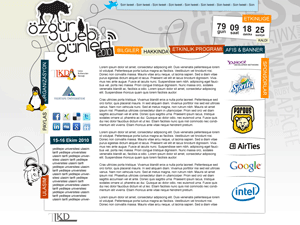
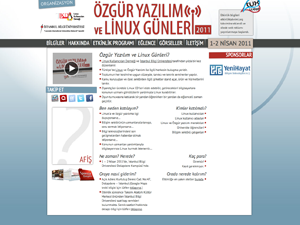
theme screenshot, stil, tuxweet english fixes

diff --git a/www.ozguryazilimgunleri.org.tr/2011/wp-content/themes/oylg2011tema/css/style.css b/www.ozguryazilimgunleri.org.tr/2011/wp-content/themes/oylg2011tema/css/style.css
@@ -98,33 +98,17 @@ p {
 	margin:5px 0 0 50px;
 }
 
-#header #tuxweet {
+#header #mainsponsor {
 	float:right;
 	width:184px;
 }
 
-#header #tuxweet #top {
-	background:url(../images/tuxweettop.png) no-repeat right top;
-	width:184px;
-	height:58px;
+#header #mainsponsor h2 {
+	display:none;
 }
 
-#header #tuxweet #center {
-	background:url(../images/tuxweetcenter.png) repeat-y left top;
-	width:124px;
-	padding:0 50px 0 10px;
-}
-
-#header #tuxweet #bottom {
-	background:url(../images/tuxweetbottom.png) no-repeat left top;
-	width:184px;
-	height:10px;
-}
-
-#header #tuxweet a {
-	font-size:0.9em;
-	font-family:'PTSansRegular', Arial, sans-serif;
-	text-decoration:none;
+#header #mainsponsor img {
+	float:left;
 }
 
 /* menu */
@@ -234,6 +218,30 @@ p {
 	float:left;
 	width:210px;
 	margin:10px 0 0 4px;
+}
+
+#wrapper #content #left #tuxweet #top {
+	background:url(../images/tuxweettop.png) no-repeat right top;
+	width:184px;
+	height:58px;
+}
+
+#wrapper #content #left #tuxweet #center {
+	background:url(../images/tuxweetcenter.png) repeat-y left top;
+	width:124px;
+	padding:0 50px 0 10px;
+}
+
+#wrapper #content #left #tuxweet #bottom {
+	background:url(../images/tuxweetbottom.png) no-repeat left top;
+	width:184px;
+	height:10px;
+}
+
+#wrapper #content #left #tuxweet a {
+	font-size:0.9em;
+	font-family:'PTSansRegular', Arial, sans-serif;
+	text-decoration:none;
 }
 
 #wrapper #content #left li {

diff --git a/www.ozguryazilimgunleri.org.tr/2011/wp-content/themes/oylg2011tema/sidebar.php b/www.ozguryazilimgunleri.org.tr/2011/wp-content/themes/oylg2011tema/sidebar.php
@@ -2,4 +2,13 @@
 <h2><? if($_GET["lang"]=="en") echo "FOLLOW US"; else echo "TAKİP ET"; ?></h2>
 <?php wp_list_bookmarks("title_before=<h2 style='display:none;'>&title_li=&category_before=&category_after=&category=4&orderby=rating"); ?>
 <div class="clearfix"></div>
-<?php dynamic_sidebar( 'first-footer-widget-area' ); ?>
+<div id="tuxweet">
+	<div id="top"></div>
+	<?php $sontweetial=simplexml_load_file("http://tuxweet.linux.org.tr/rss/username:ozguryazilimgunleri");
+	$sontweet=$sontweetial->entry[0]->title;
+	$sontweet_trimmed = ltrim($sontweet, "ozguryazilimgunleri: "); //her tweet'in basinda gelen ifadeleri kirpalim ?>
+	<div id="center"><a href="http://tuxweet.linux.org.tr/ozguryazilimgunleri"><?php echo $sontweet_trimmed; ?></a></div>
+	<div id="bottom"></div>
+</div>
+<div align="center"><a href="http://www.ozguryazilimgunleri.org/2011/gorseller"><img src="http://www.ozguryazilimgunleri.org/2011/wp-content/uploads/afis<? if($_GET["lang"]=="en") echo "_en"; ?>.jpg" alt="Özgür Yazılım Günleri 2011 Gorseller" /></a></div>
+<div align="center"><a href="http://www.ozguryazilimgunleri.org/2011/wp-content/uploads/<? if($_GET["lang"]=="en") echo "ozgur_yazilim_ve_linux_gunleri_2011_sponsorluk_dosyasi_web_en.pdf"; else echo "2010/12/ozgur_yazilim_ve_linux_gunleri_2011_sponsorluk_dosyasi_web_tr.pdf"; ?>" target="_blank"><img src="http://www.ozguryazilimgunleri.org/2011/wp-content/uploads/sponsordosyasi<? if($_GET["lang"]=="en") echo "_en"; ?>.jpg" /></a></div>

diff --git a/www.ozguryazilimgunleri.org.tr/2011/wp-content/themes/oylg2011tema/header.php b/www.ozguryazilimgunleri.org.tr/2011/wp-content/themes/oylg2011tema/header.php
@@ -33,13 +33,8 @@
 		</ul>
 	</div>
 	<div id="logo"><a href="<?php bloginfo('url'); ?>"><img src="<?php bloginfo('template_url'); ?>/images/logo<? if($_GET["lang"]=="en") echo "_en"; ?>.png" alt="Ozgur Yazilim Gunleri 2010 Logo" /></a></div>
-	<div id="tuxweet">
-		<div id="top"></div>
-		<?php $sontweetial=simplexml_load_file("http://tuxweet.linux.org.tr/rss/username:ozguryazilimgunleri");
-		$sontweet=$sontweetial->entry[0]->title;
-		$sontweet_trimmed = ltrim($sontweet, "ozguryazilimgunleri: "); //her tweet'in basinda gelen ifadeleri kirpalim ?>
-		<div id="center"><a href="http://tuxweet.linux.org.tr/ozguryazilimgunleri"><?php echo $sontweet_trimmed; ?></a></div>
-		<div id="bottom"></div>
+	<div id="mainsponsor">
+		<?php wp_list_bookmarks("&title_li=&category_before=&category_after=&category=8&orderby=rating"); ?>
 	</div>
 </div>
 
